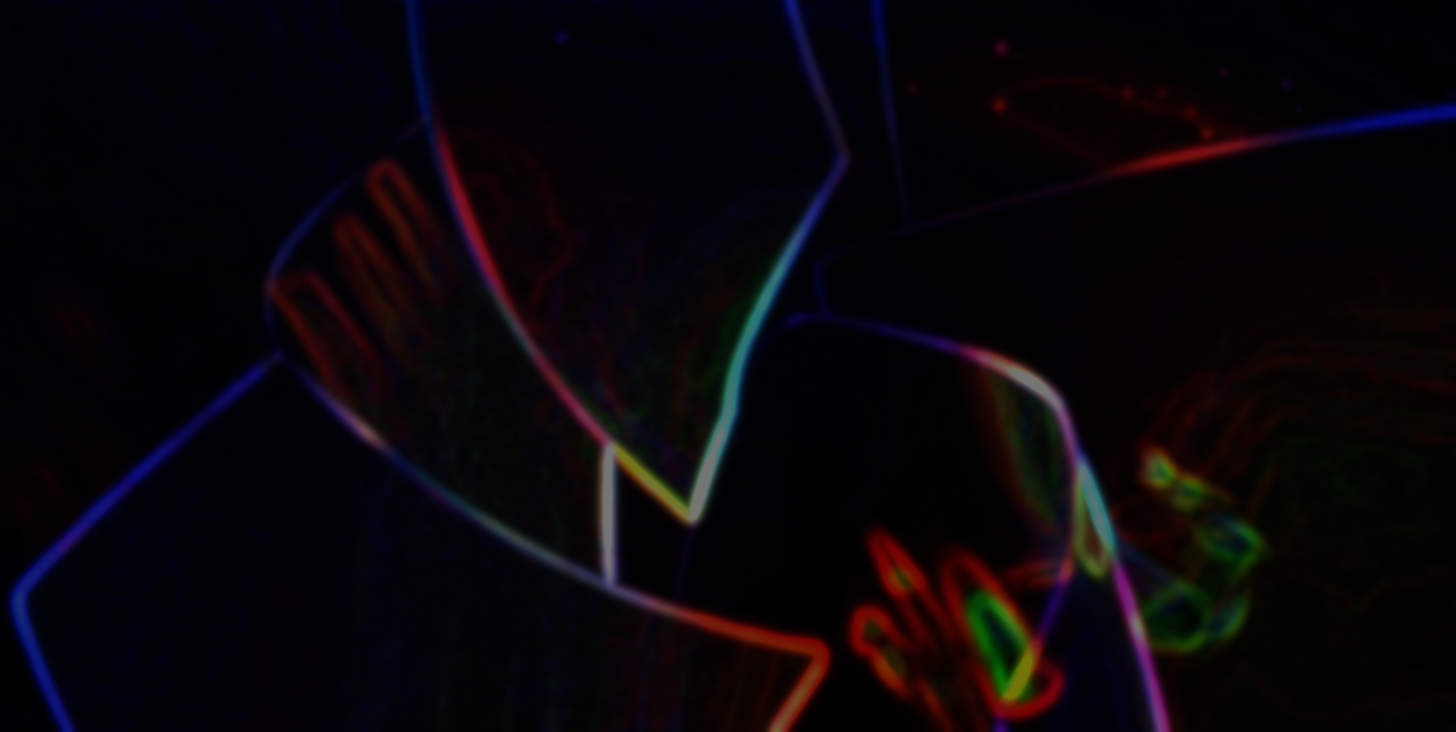
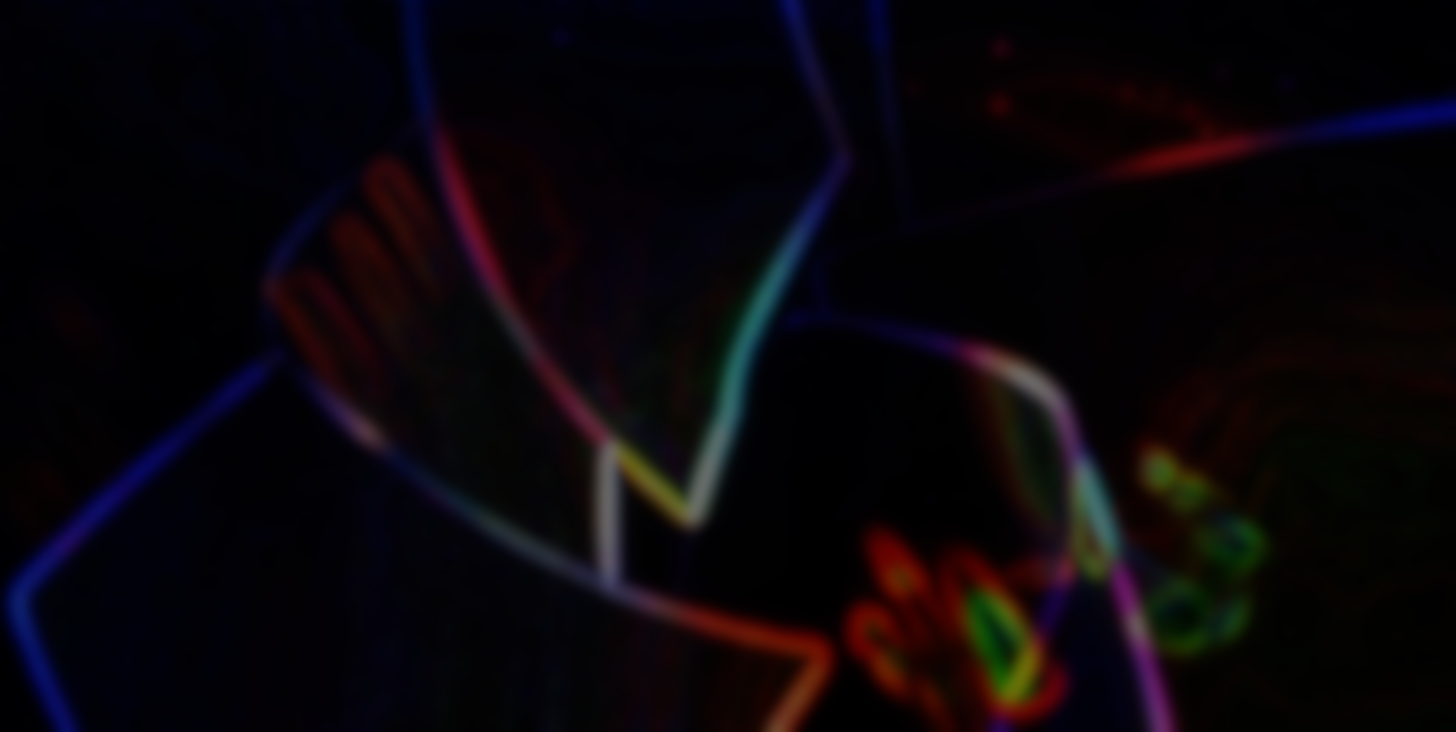
small changes

diff --git a/styles.css b/styles.css
@@ -18,7 +18,8 @@ header {
   padding-top: env(safe-area-inset-top);
 }
 
-.bottom-bar {
+footer {
+  min-height: 10dvh;
   padding-bottom: env(safe-area-inset-bottom);
 }
 
@@ -33,7 +34,7 @@ h1 {
 }
 
 #hero {
-  background-image: url("./public/images/bg/banner-bg.png");
+  background-image: url("./public/images/bg/banner-bg-sm.png");
   background-size: cover;
   background-repeat: no-repeat;
   background-position: center;
@@ -42,7 +43,7 @@ h1 {
 
 #hero img {
   width: auto;
-  height: 15dvh;
+  height: 18dvh;
 }
 
 #profile {
@@ -76,6 +77,7 @@ h1 {
 
 @media screen and (min-width: 768px) {
   #hero {
+    background-image: url("./public/images/bg/banner-bg.png");
     background-attachment: fixed;
     min-height: 60dvh;
   }

diff --git a/index.html b/index.html
@@ -225,6 +225,15 @@
         </a>
         <span class="fs-6">2026</span>
       </div>
+      <div class="source-link m-2">
+        <a href="https://github.com/neighborhoodnerd21/www">
+          <img
+            src="./public/images/icons/GitHub_Lockup_White_Clearspace.svg"
+            width="80"
+            height="auto"
+            alt="GitHub" />
+        </a>
+      </div>
     </footer>
     <script
       src="https://cdn.jsdelivr.net/npm/bootstrap@5.3.8/dist/js/bootstrap.bundle.min.js"
